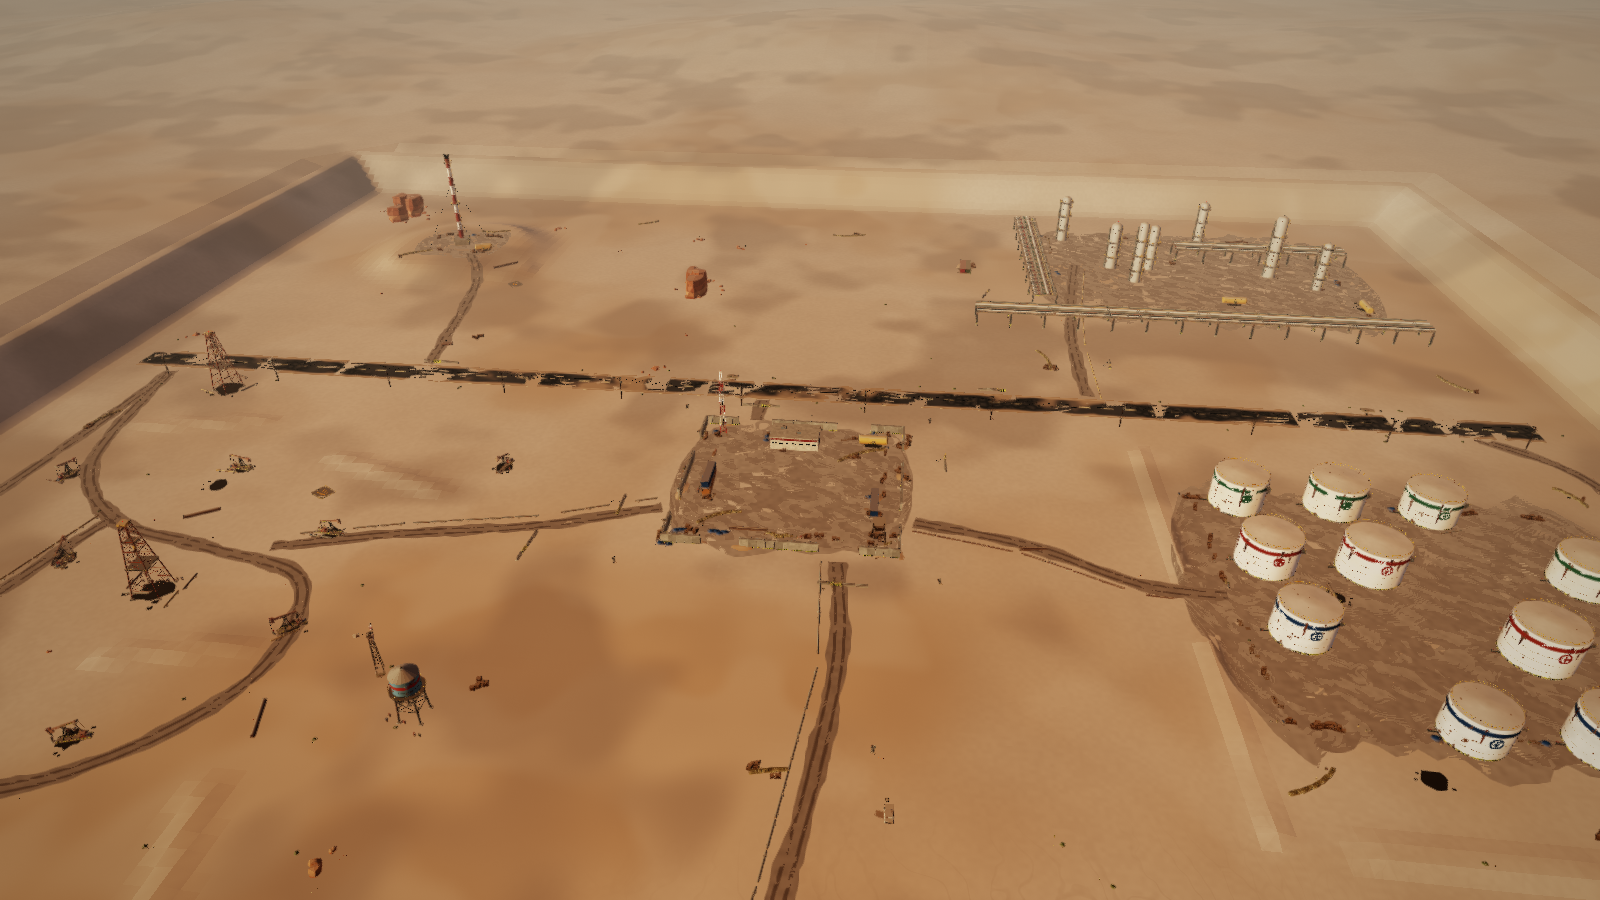
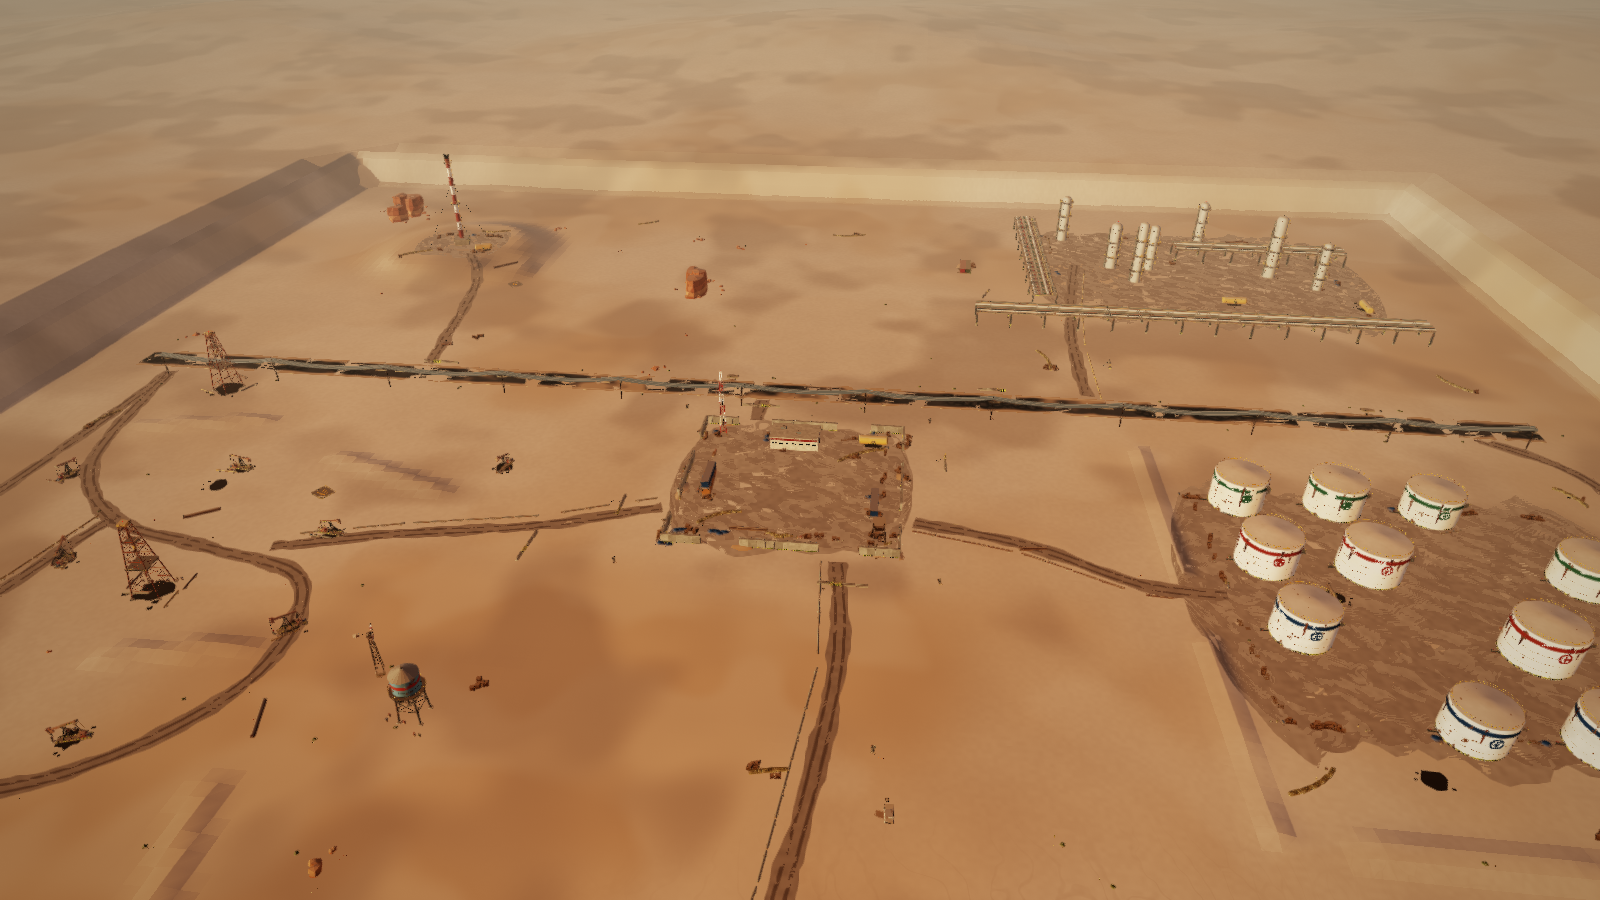
Maps: 120 m clear spawn runs, flat ground to the wall, Rust Belt pipe snag removed

diff --git a/crates/arena-core/src/map.rs b/crates/arena-core/src/map.rs
@@ -472,8 +472,9 @@ impl Map {
     }
 
     /// Turns every spawn toward the action: the heading nearest the outpost
-    /// (within 75 degrees of it) with twice [`SPAWN_CLEAR`] m of open ground
-    /// ahead, or at least [`SPAWN_CLEAR`].
+    /// (within 75 degrees of it) with four times [`SPAWN_CLEAR`] m of open
+    /// ground ahead (a new player holding W for a good while), else twice,
+    /// else at least [`SPAWN_CLEAR`].
     pub(crate) fn aim_spawns(&mut self) {
         let o = Vec2::new(self.outpost.x, self.outpost.z);
         for i in 0..self.spawns.len() {
@@ -481,7 +482,7 @@ impl Map {
             let d = o - p;
             let want = (-d.y).atan2(d.x);
             // Twice the minimum if we can get it (a long open run), else the minimum.
-            'search: for dist in [2.0 * SPAWN_CLEAR, SPAWN_CLEAR] {
+            'search: for dist in [4.0 * SPAWN_CLEAR, 2.0 * SPAWN_CLEAR, SPAWN_CLEAR] {
                 for k in 0..=15 {
                     for sign in [1.0f32, -1.0] {
                         let yaw = want + sign * k as f32 * 5f32.to_radians();
@@ -494,6 +495,14 @@ impl Map {
             }
         }
     }
+}
+
+/// The rim round the play area: flat right up to the invisible wall, then
+/// a steep rise of `height` m beyond it (a clean boundary: nothing inside
+/// the wall a tank can climb at a silly angle). `edge` is the distance from
+/// the centre along the axis (or the larger of |x| and |z|).
+pub(crate) fn rim(play_half: f32, size: f32, edge: f32, height: f32) -> f32 {
+    smoothstep(play_half + 0.5, size / 2.0, edge) * height
 }
 
 pub(crate) fn smoothstep(e0: f32, e1: f32, x: f32) -> f32 {

diff --git a/crates/arena-core/src/rustbelt.rs b/crates/arena-core/src/rustbelt.rs
@@ -428,7 +428,6 @@ impl Map {
         }
         b.place(ObstacleKind::Tent, 214.0, -232.0, 0.0);
         b.place(ObstacleKind::CarWreck, 152.8, -202.0, 0.05);
-        b.place(ObstacleKind::Pipe, 128.0, -132.0, 0.1);
         b.place(ObstacleKind::Sandbags, 102.0, -96.0, 0.5);
 
         // ---- THE MAGNET CRANE: over the pile of wrecks ---------------------------
@@ -537,8 +536,8 @@ impl Map {
                 h = carve(x, z, h);
                 // The canyon walls: high and steep north and south, lower
                 // where the canyon runs on east and west.
-                h += smoothstep(play_half - 12.0, size / 2.0, z.abs()) * 20.0;
-                h += smoothstep(play_half - 12.0, size / 2.0, x.abs()) * 12.0;
+                h += rim(play_half, size, z.abs(), 20.0);
+                h += rim(play_half, size, x.abs(), 12.0);
                 heights[iz * resolution + ix] = h;
             }
         }

diff --git a/crates/arena-core/tests/spawns.rs b/crates/arena-core/tests/spawns.rs
@@ -14,8 +14,10 @@ fn spawns_face_open_ground_toward_the_action() {
             for (i, s) in map.spawns.iter().enumerate() {
                 let p = Vec2::new(s.pos.x, s.pos.z);
                 let dir = Vec2::new(s.yaw.cos(), -s.yaw.sin());
-                if !map.heading_clear(p, s.yaw, SPAWN_CLEAR) {
-                    bad.push(format!("{id:?} seed {seed} spawn {i} at {p}: blocked within {SPAWN_CLEAR} m ahead"));
+                // A new player holds W for a good while: 120 m of open run.
+                let run = 4.0 * SPAWN_CLEAR;
+                if !map.heading_clear(p, s.yaw, run) {
+                    bad.push(format!("{id:?} seed {seed} spawn {i} at {p}: blocked within {run} m ahead"));
                 }
                 if dir.dot((o - p).normalize()) < 0.25 {
                     bad.push(format!("{id:?} seed {seed} spawn {i} at {p}: faces away from the action"));

diff --git a/crates/arena-core/src/sink.rs b/crates/arena-core/src/sink.rs
@@ -229,7 +229,7 @@ impl Map {
             Vec2::new(248.0, -35.0),
             Vec2::new(190.0, 212.0),
             Vec2::new(25.0, 228.0),
-            Vec2::new(-172.0, 232.0),
+            Vec2::new(-150.0, 240.0),
             Vec2::new(-248.0, 40.0),
             Vec2::new(-238.0, -150.0),
         ];
@@ -523,7 +523,7 @@ impl Map {
                 // The road wins over pads: its deck must sit flush.
                 h = road_blend(x, z, h);
                 let edge = x.abs().max(z.abs());
-                h += smoothstep(play_half - 15.0, size / 2.0, edge) * 16.0;
+                h += rim(play_half, size, edge, 16.0);
                 heights[iz * resolution + ix] = h;
             }
         }

diff --git a/crates/arena-core/src/refinery.rs b/crates/arena-core/src/refinery.rs
@@ -475,7 +475,7 @@ impl Map {
                 // The road and rails win over pads: their decks sit flush.
                 h = corridor(x, z, h);
                 let edge = x.abs().max(z.abs());
-                h += smoothstep(play_half - 15.0, size / 2.0, edge) * 16.0;
+                h += rim(play_half, size, edge, 16.0);
                 heights[iz * resolution + ix] = h;
             }
         }
